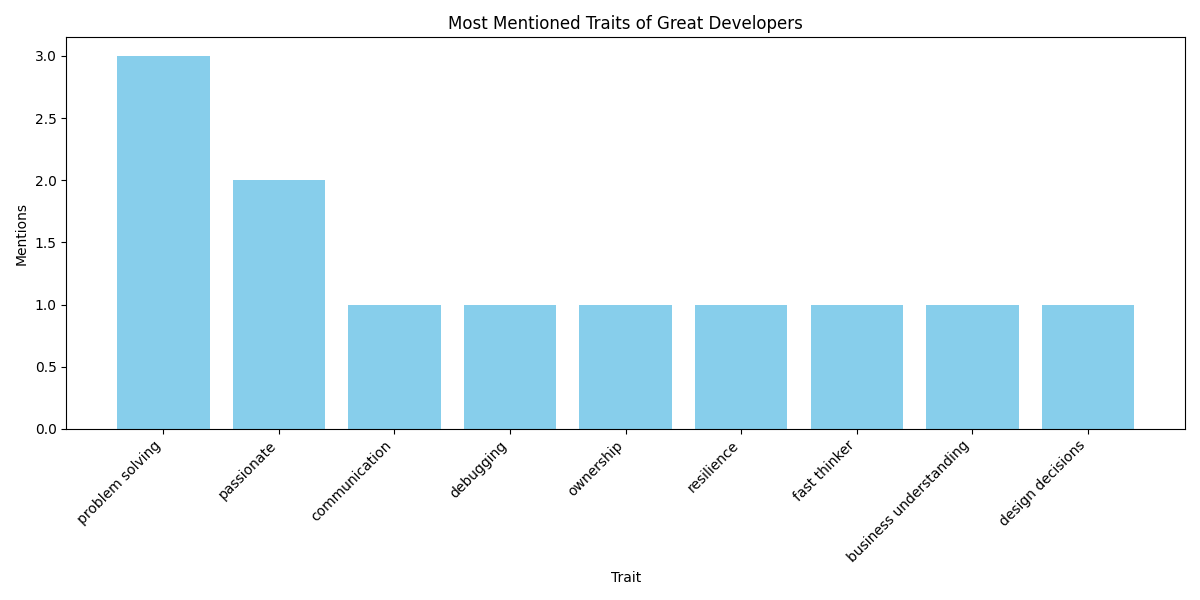
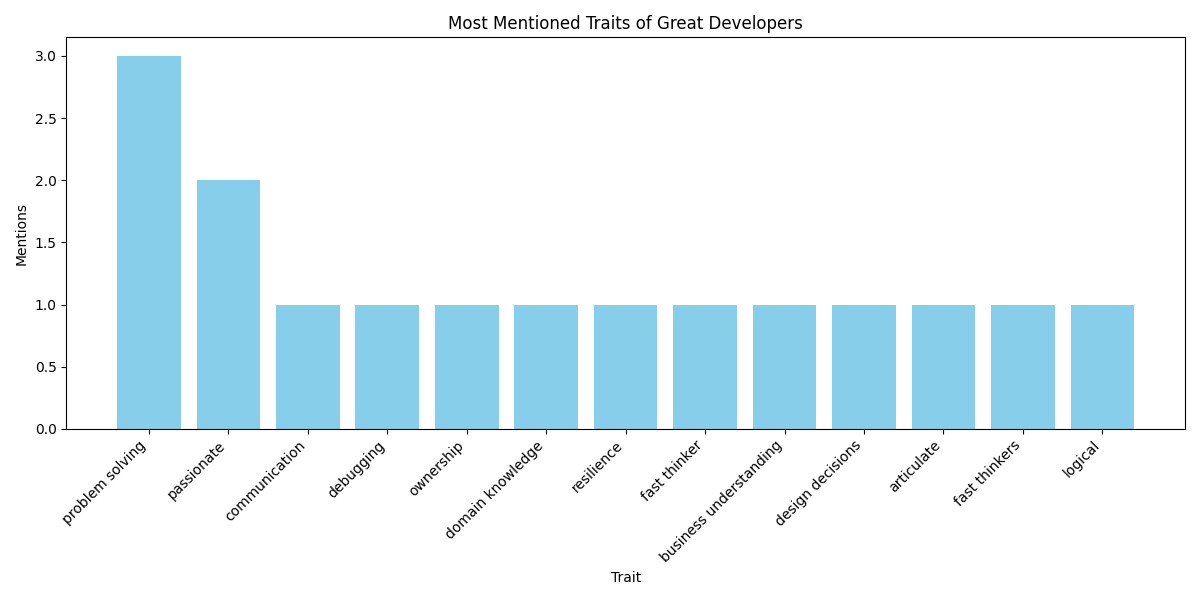
Renamed scraping items and added its info in README

diff --git a/scripts/plotting_trait.py b/scripts/plotting_trait.py
@@ -2,15 +2,15 @@ import re
 from collections import Counter
 
 # Loading the trait file
-with open("data/Trait_forGoodDev.txt", "r", encoding="utf-8") as f:
+with open("data/trait_ofgr8dev.txt", "r", encoding="utf-8") as f:
     text = f.read().lower()
 
 # list of key traits
 traits = [
-    "problem solving", "passionate", "communication", "debugging", "ownership",
+    "problem solving", "passionate", "communication", "debugging", "ownership", "domain knowledge",
     "resilience", "teamwork", "consistency", "fast thinker", "documentation",
-    "business understanding", "asking questions", "design decisions",
-    "not giving up", "adaptability", "deep thinking"
+    "business understanding", "asking questions", "design decisions",'learning'
+    "not giving up", "adaptability", "deep thinking" , "articulate", "fast thinkers", "logical"
 ]
 
 # Count occurrences

diff --git a/scripts/scraping_gr8dev_traits.py b/scripts/scraping_gr8dev_traits.py
@@ -7,10 +7,10 @@ request = requests.get(uri)
 html_content = request.text
 soup = BeautifulSoup(html_content, 'lxml')
 post_title = soup.find('h1').text.strip()
-with open('data/Trait_forGoodDev.txt', 'w', encoding='utf-8') as f:
+with open('data/trait_ofgr8dev.txt', 'w', encoding='utf-8') as f:
     pass  # Just opening in 'w' mode clears the file
 
-with open('data/Trait_forGoodDev.txt', 'a') as f:
+with open('data/trait_ofgr8dev.txt', 'a') as f:
     f.write(f"Post title : {post_title} \n\n")
 
 
@@ -32,7 +32,7 @@ submission = reddit.submission(url=uri)
 submission.comments.replace_more(limit=0)
 
 
-with open('data/Trait_forGoodDev.txt', 'a', encoding='utf-8') as f:
+with open('data/trait_ofgr8dev.txt', 'a', encoding='utf-8') as f:
     for comment in submission.comments[:50]:
         comment_text = comment.body
         

diff --git a/README.md b/README.md
@@ -136,7 +136,18 @@ BUCKET_NAME=reddit-data-yourname
 docker-compose up airflow-init
 docker-compose up
 ```
+
 Then go to localhost:8080 and trigger extract_reddit_dag.
+
+---
+
+### Tried Web scraping a Reddit post about Traits Redditor's noticed in Great Developers
+#### Hope I excude qualities of these Developers, one day hehe
+
+- Added scraping script where I used BeautifulSoup4 for post title and PRAW for post comments.
+- Saved the Reddit post's title and comments in txt file in /data dir
+- Tried frequency plotting few repeating skills that were mentioned.
+
 ---
 
 ## Usage
@@ -144,6 +155,8 @@ Then go to localhost:8080 and trigger extract_reddit_dag.
 - Trigger the DAGs via Airflow UI at http://localhost:8080
 - Check logs in the Airflow UI for debugging
 - Processed data is available in BigQuery dataset `reddit_dataset`
+
+![Airflow DAGs](visuals/Airflow%20ui%20dags.png)
 
 ## Contributing
 
